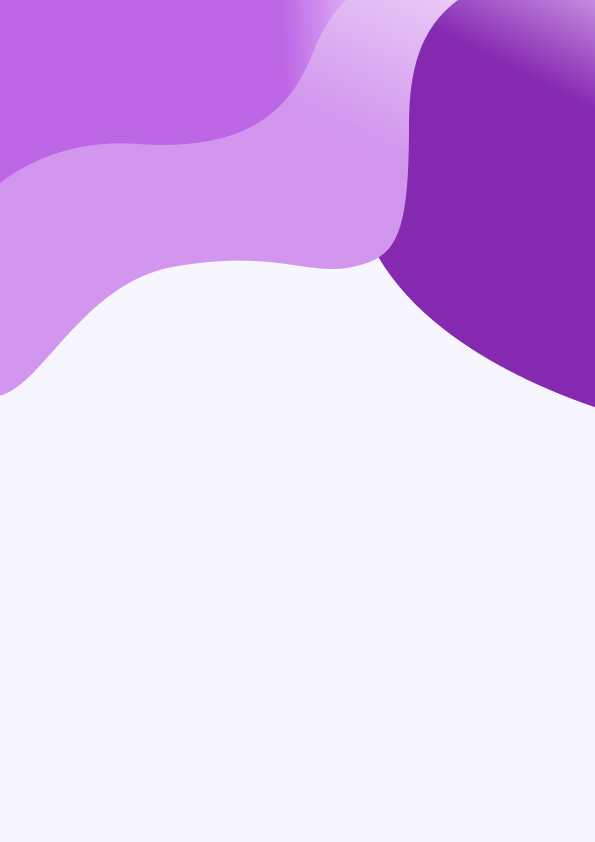
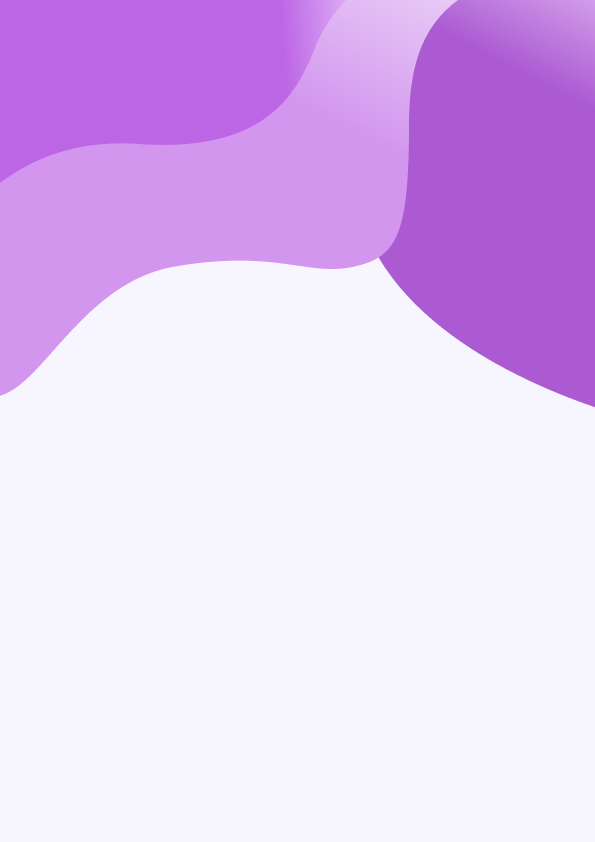
update login/register purple

Changed region(s): [[0.6353, 0.0, 1.0, 0.4941]]

diff --git a/src/components/LoginForm/index.jsx b/src/components/LoginForm/index.jsx
@@ -1,7 +1,7 @@
 import { React, useRef, useState } from 'react'
 import Lottie from 'lottie-react'
 import animationData from '../../assets/szndChef.json'
-import form from '../../assets/addrecipeformbg.png'
+import form from '../../assets/form.png'
 import logo from '../../assets/logo_color_transparent.png'
 import './LoginForm.css'
 import { useNavigate, Link } from 'react-router-dom'

diff --git a/src/components/RegisterForm/RegisterForm.css b/src/components/RegisterForm/RegisterForm.css
@@ -18,7 +18,7 @@
 }
 
 .leftsideform{
-    background-color: #8629B1;
+    background-color: #AB5AD1;
 }
 
 
@@ -27,7 +27,7 @@
 }
 
 .formbutton:hover{
-    background-color: #8629B1;
+    background-color: #AB5AD1;
 }
 
 
@@ -37,7 +37,7 @@
 
 
 .formlink:hover{
-    color: #8629B1;
+    color: #AB5AD1;
 }
 
 #username:focus,

diff --git a/src/components/LoginForm/LoginForm.css b/src/components/LoginForm/LoginForm.css
@@ -19,7 +19,7 @@
 
 
 .leftsideform{
-    background-color: #8629B1;
+    background-color: #AB5AD1;
 }
 
 
@@ -28,7 +28,7 @@
 }
 
 .formbutton:hover{
-    background-color: #8629B1;
+    background-color: #AB5AD1;
 }
 
 
@@ -38,7 +38,7 @@
 
 
 .formlink:hover{
-    color: #8629B1;
+    color: #AB5AD1;
 }
 
 #username:focus,
